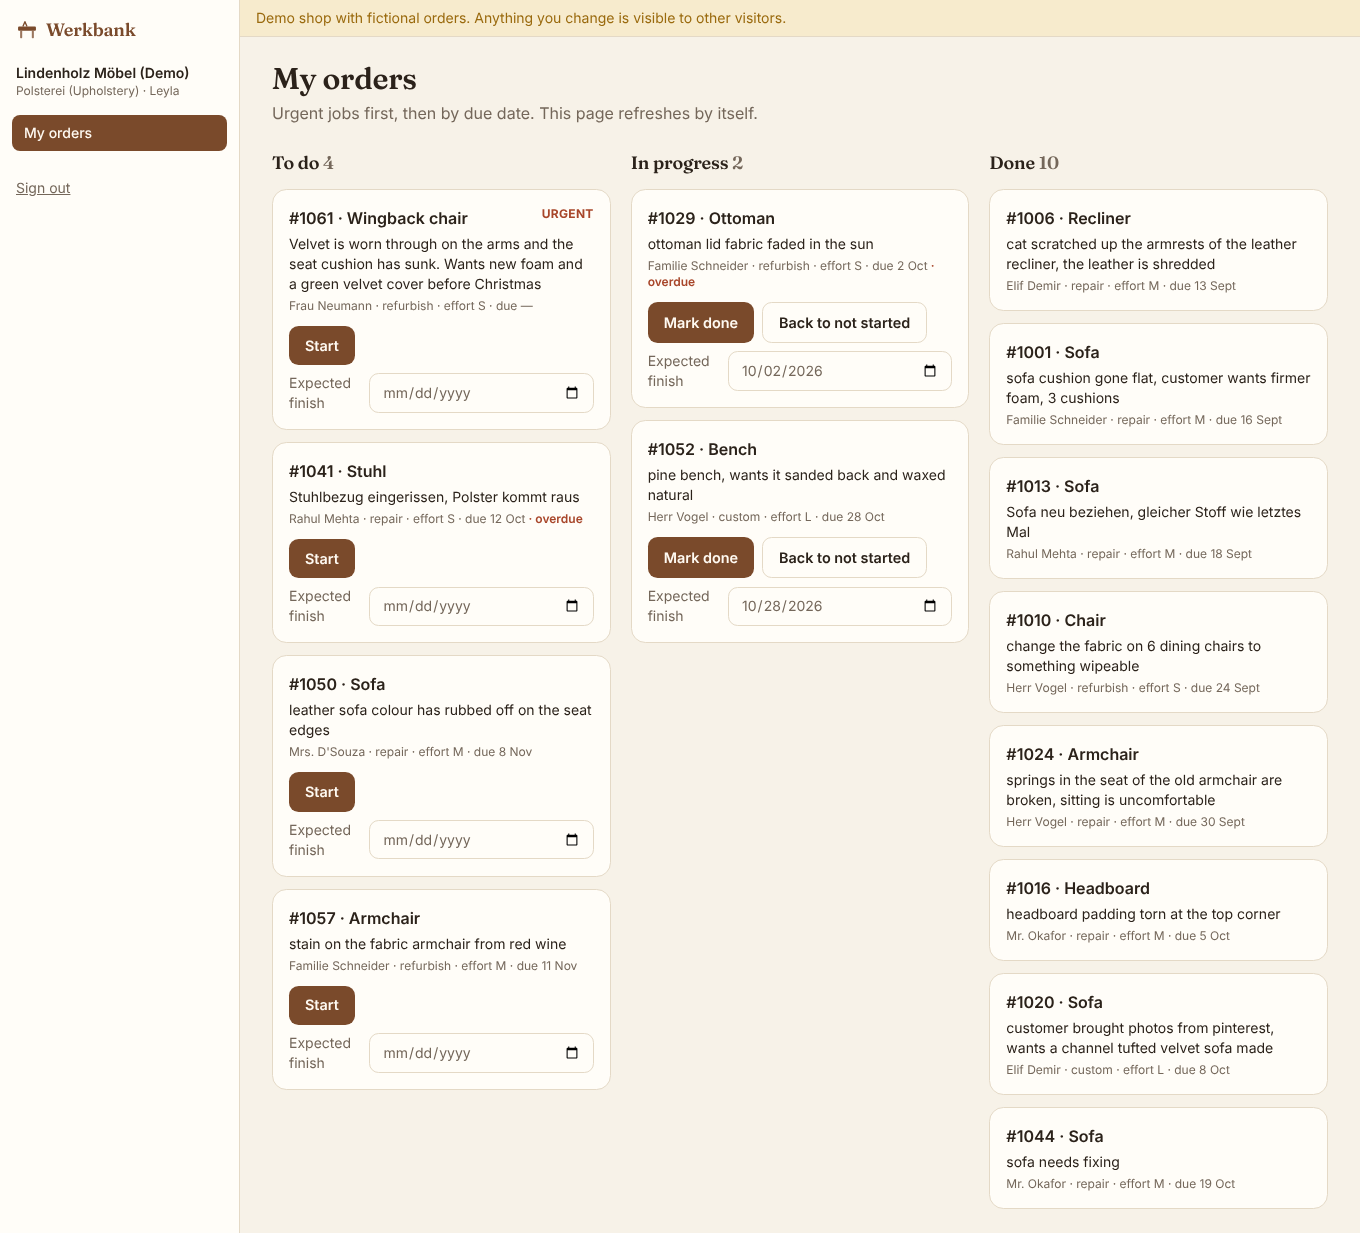
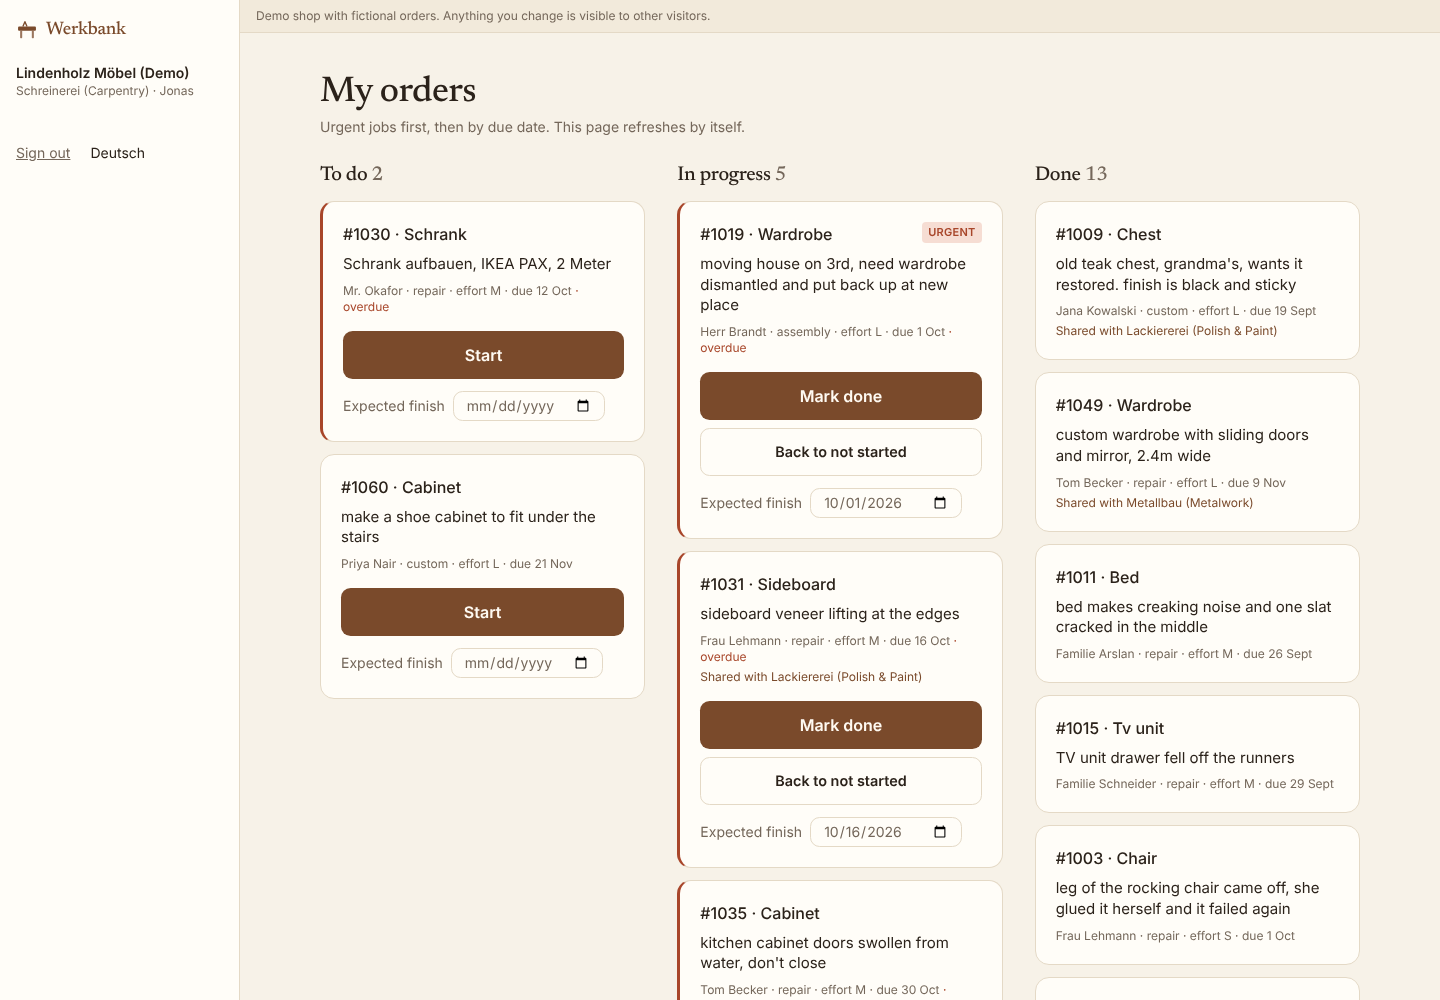
README: new screenshots and text for the redesign, split orders, German UI and Google login
The previous README and screenshots are kept on the archive/pre-redesign branch.

Claude-Session: https://claude.ai/code/session_01NptCtAzadxexRME2krepo3

diff --git a/README.md b/README.md
@@ -10,6 +10,8 @@ Live demo: **https://werkbank-gamma.vercel.app**. Click *Open the demo shop*; no
 
 ![Board](docs/screenshots/board.png)
 
+English and German UI, a quiet design on a warm wood palette, and a phone-first view for workshop staff.
+
 ## Why this exists
 
 The project started from a real client brief: a furniture retailer with three in-house workshops wanted orders
@@ -24,14 +26,17 @@ in-house workshop should take it. That gap is what Werkbank fills.
 
 | Owner | Workshop staff |
 |---|---|
+| Signs in with Google | Username and password, created and reset by the owner |
 | Live preview of the routing while typing an order | Own login that only shows that workshop's orders |
 | One board for all workshops, overdue orders highlighted | Urgent jobs first, then sorted by due date |
-| Review queue for low-confidence orders, with the model's best guess | One tap for *Start* or *Mark done*, plus an expected finish date |
+| Review queue for low-confidence orders, with the model's best guess | Three tabs and big buttons: *Start*, *Mark done*, plus an expected finish date |
 | Reassigning an order teaches the shop's model | The board refreshes itself every few seconds |
+| Splits one order across two workshops that work in parallel | Sees and updates only its own part of a split order |
 | Reports: open, overdue, done and turnaround per workshop; monthly volume; CSV export | |
 | Router strictness (strict, balanced, relaxed) and plan selection | |
 
-It installs as an app on phone and desktop (PWA), and all data is stored server-side in Postgres. Pricing is
+The whole interface is available in English and German. It installs as an app on phone and desktop (PWA), and all
+data is stored server-side in Postgres. Pricing is
 either a subscription (Starter €29/month, Pro €59/month) or a one-time licence (€790). Payments are **not** connected
 in this build: picking a plan only records it on the account.
 
@@ -96,8 +101,9 @@ the model is then measured on 400 later orders:
 
 Limitations, plainly: synthetic test data is easier than real tickets, so real-world accuracy is unknown until a
 shop uses it. The 400-correction row in the full report is close to in-distribution and should not be quoted. Job
-type accuracy (70%) is mediocre. Single-capability routing does not split multi-workshop jobs; a "also involves"
-hint is shown instead.
+type accuracy (70%) is mediocre. The router picks one workshop; an "also involves" hint suggests when an owner
+may want to split the order by hand. German requests are recognised less often than English ones: the cue lexicon is
+mostly English, and in a small manual check 3 of 5 German example sentences went to the review queue.
 
 ## Multi-tenancy and security
 
@@ -114,15 +120,15 @@ hint is shown instead.
 
 ## Stack
 
-Next.js 15 (App Router) · TypeScript · Tailwind CSS 4 · Postgres (Neon in production, PGlite in dev and tests) ·
-jose · bcryptjs · Vitest · Playwright for the visual walkthrough. No ORM: around 20 parameterised queries in one file.
+Next.js 16 (App Router) · TypeScript · Tailwind CSS 4 · Postgres (Neon in production, PGlite in dev and tests) ·
+jose · bcryptjs · Vitest · Newsreader and Inter. No ORM: all SQL is parameterised and lives in one file.
 
 ## Run it locally
 
 ```bash
 npm install
 npm run dev          # http://localhost:3000, data in ./.pglite, demo shop seeded on first start
-npm test             # 23 tests: classifier + tenant isolation
+npm test             # 56 tests: classifier, tenant isolation, split orders, auth, i18n
 npm run model        # regenerate data, retrain, re-evaluate
 ```
 
@@ -142,15 +148,21 @@ but data resets and is not shared between server instances.
 
 ## Screenshots
 
-| New order with live routing | Why it went there |
+| Landing page | Board |
+|---|---|
+| ![](docs/screenshots/landing.png) | ![](docs/screenshots/board.png) |
+
+| New order with live routing | Why it went there, split across two workshops |
 |---|---|
 | ![](docs/screenshots/new-order.png) | ![](docs/screenshots/order.png) |
 
-| A workshop's view | Phone |
-|---|---|
-| ![](docs/screenshots/workshop-view.png) | ![](docs/screenshots/mobile.png) |
+| A workshop's view | Phone | German |
+|---|---|---|
+| ![](docs/screenshots/workshop-view.png) | ![](docs/screenshots/mobile.png) | ![](docs/screenshots/board-de.png) |
+
+Design notes: [`docs/design/`](docs/design/README.md).
 
 ## Not built (yet)
 
-Payments (Stripe), WhatsApp alerts, native store apps (the PWA covers install), splitting one order across two
-workshops, and photo attachments.
+Payments (Stripe, test mode planned), WhatsApp alerts, native store apps (the PWA covers install), and photo
+attachments.
